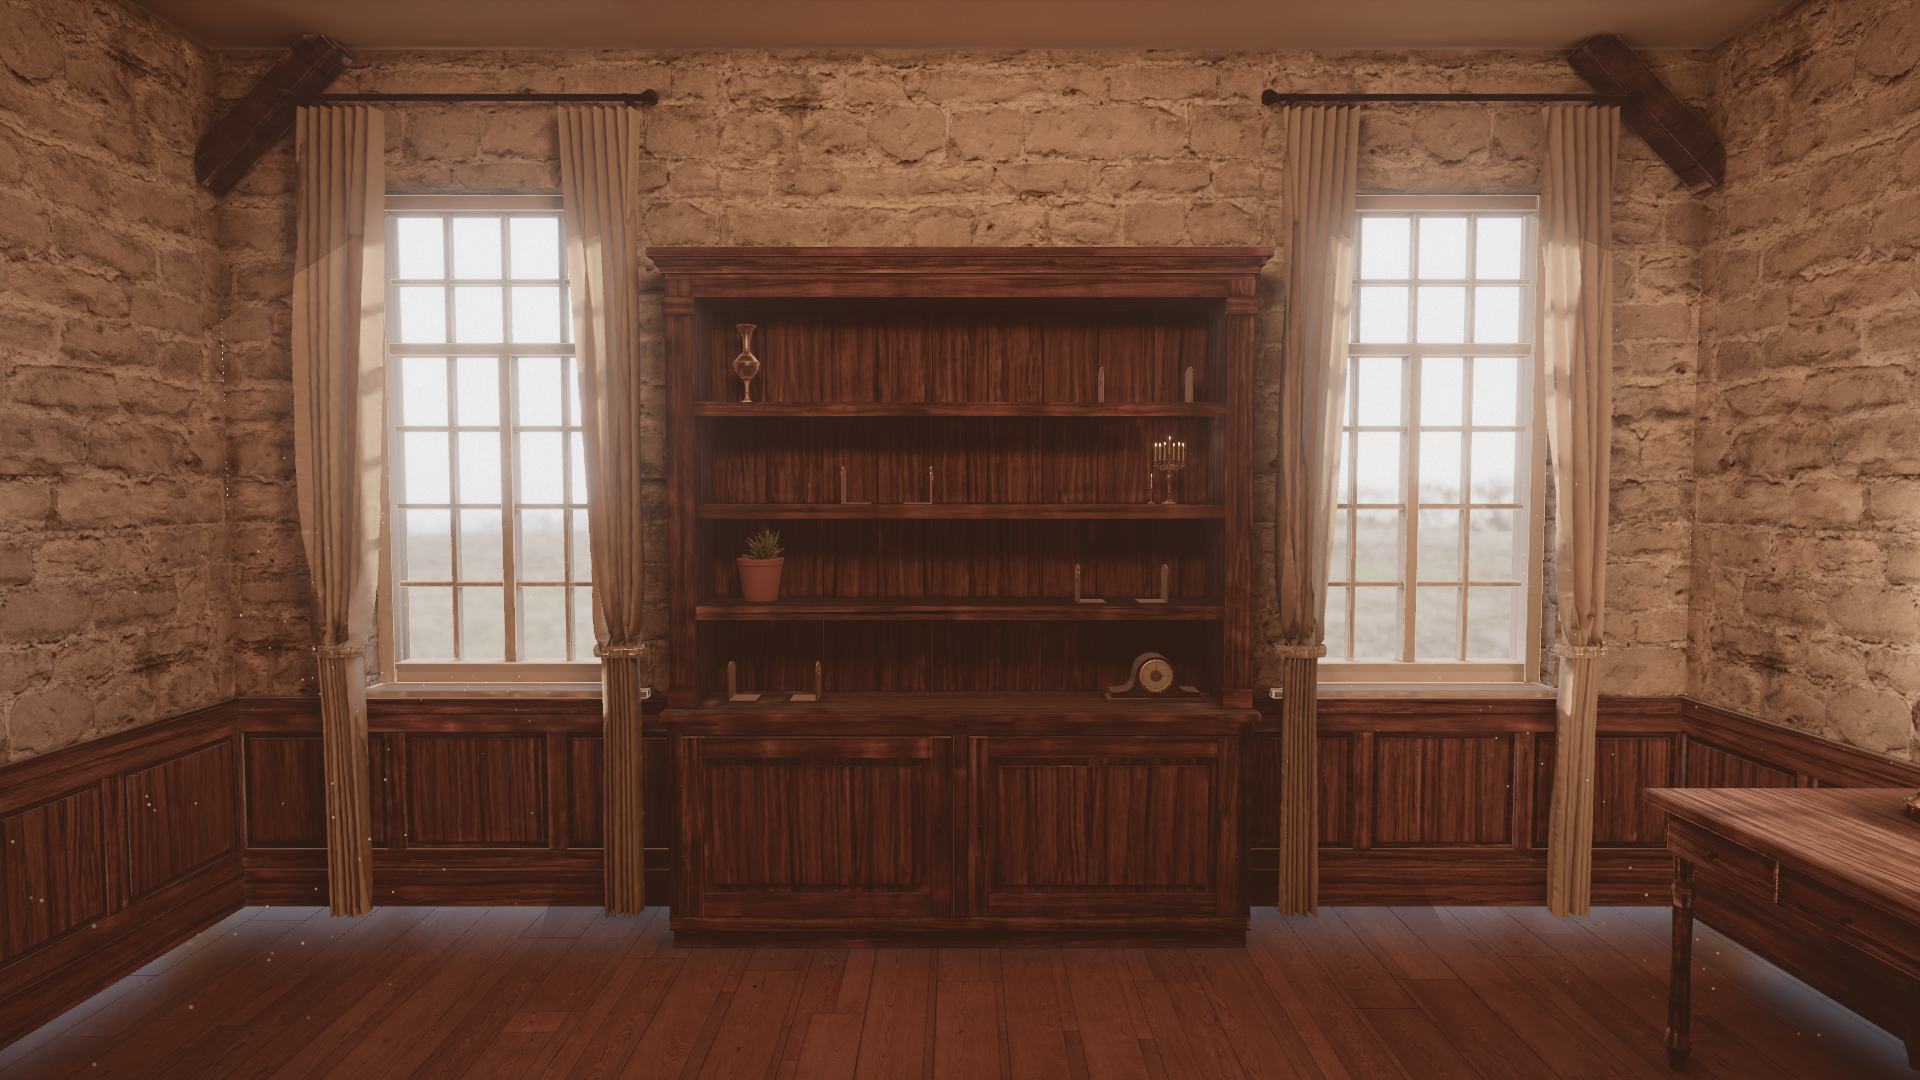
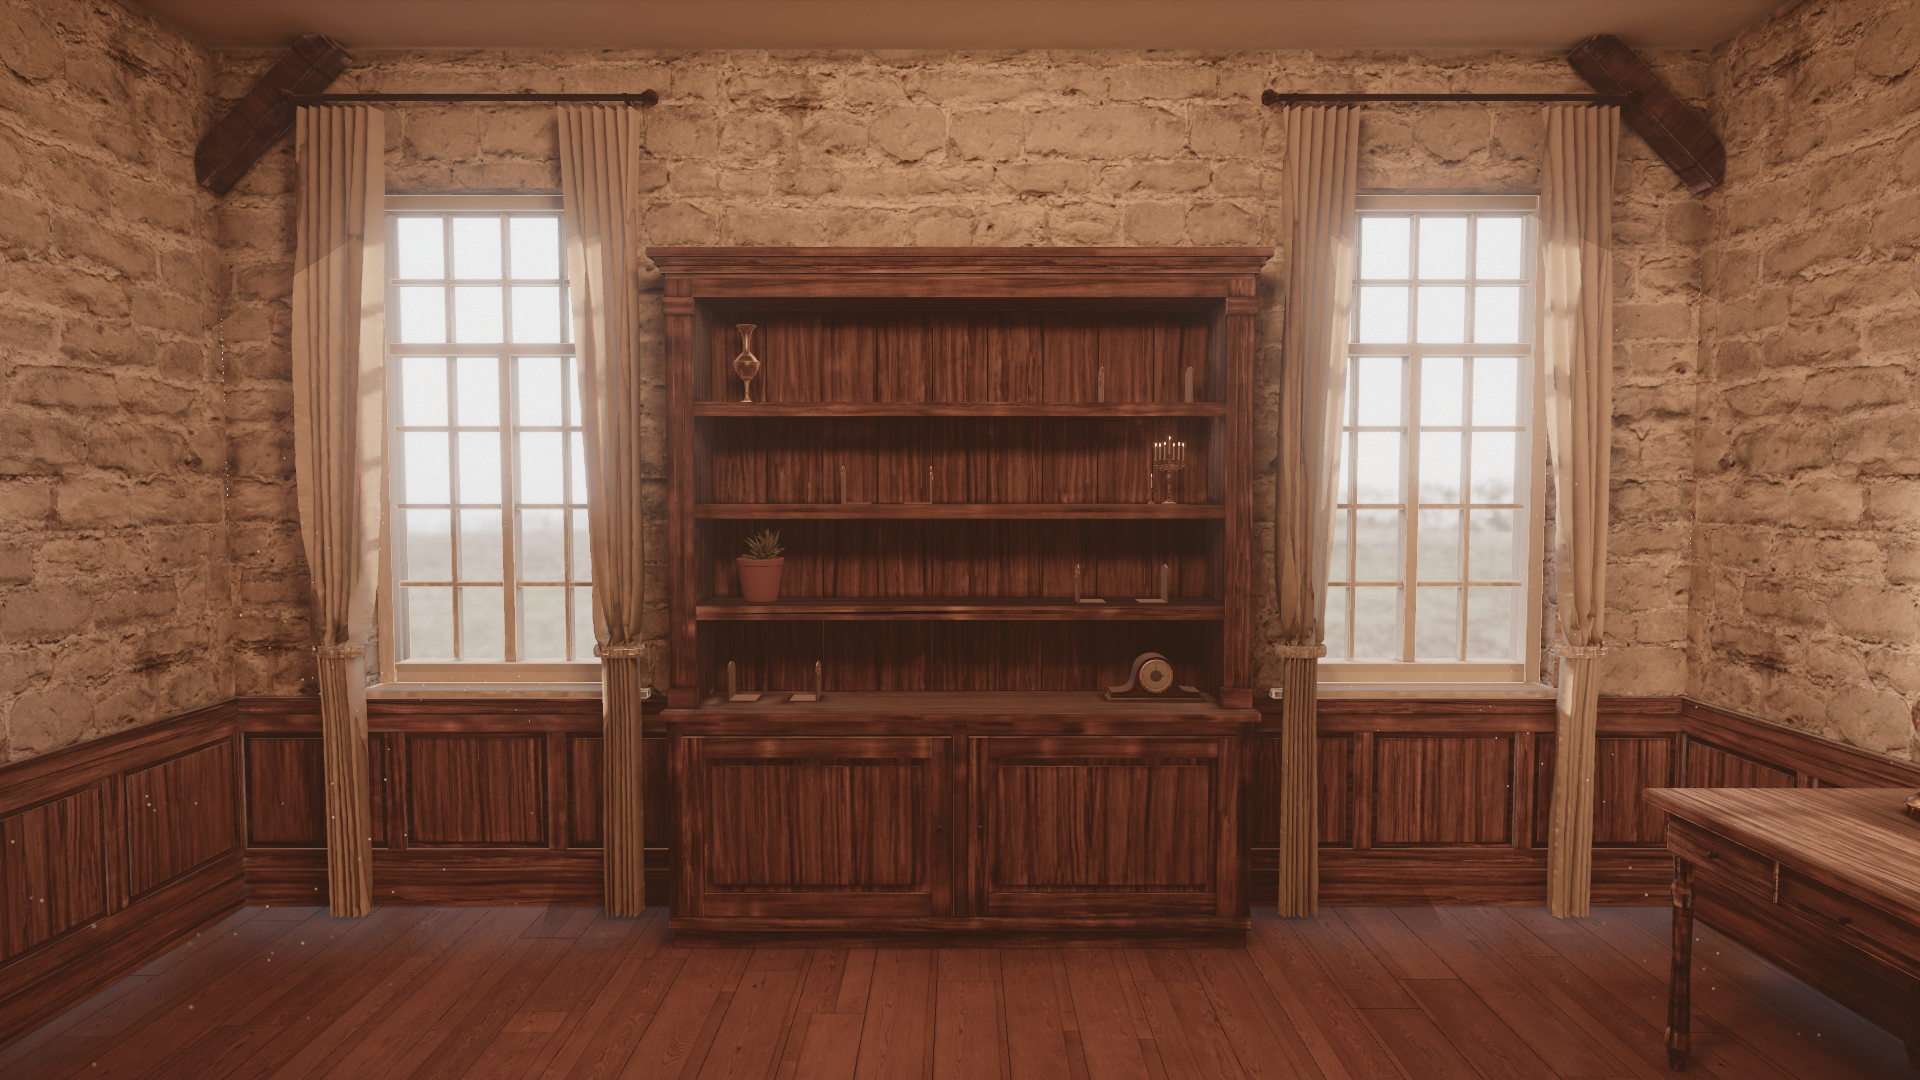
look dev S6: madeira menos vermelha, contato no reflexo, lustre mais forte

diff --git a/src/scene/floorReflectionShader.ts b/src/scene/floorReflectionShader.ts
@@ -1,6 +1,11 @@
-import { Matrix4, type WebGLRenderTarget } from 'three'
+import { Matrix4, Vector4, type WebGLRenderTarget } from 'three'
+import { room } from '../config/room'
+
+const bc = room.bookcase
 
 export interface FloorReflectionUniforms {
+  roomBounds: { value: Vector4 }
+  contactBox: { value: Vector4 }
   tReflect: { value: WebGLRenderTarget['texture'] | null }
   reflectMatrix: { value: Matrix4 }
   reflectMix: { value: number }
@@ -10,6 +15,10 @@ export interface FloorReflectionUniforms {
 
 /** Shared uniforms: the floor material reads them in its patched shader (see Lightmaps.ts). */
 export const floorReflection: FloorReflectionUniforms = {
+  roomBounds: { value: new Vector4(room.walls.left.x, room.walls.right.x, room.walls.back.z, room.walls.front.z) },
+  contactBox: {
+    value: new Vector4(bc.center[0] - bc.width / 2, bc.center[0] + bc.width / 2, bc.center[2] - bc.depth / 2, bc.center[2] + bc.depth / 2),
+  },
   tReflect: { value: null },
   reflectMatrix: { value: new Matrix4() },
   reflectMix: { value: 0 },
@@ -24,6 +33,8 @@ uniform mat4 reflectMatrix;
 uniform float reflectMix;
 uniform float reflectStretch;
 uniform float reflectBoost;
+uniform vec4 roomBounds; // xMin, xMax, zMin, zMax (inner faces of the walls)
+uniform vec4 contactBox; // bookcase footprint: xMin, xMax, zMin, zMax
 varying vec3 lbWorldPos;
 `
 
@@ -41,6 +52,12 @@ export const FLOOR_REFLECTION_SAMPLE = /* glsl */ `
 			wsum += w;
 		}
 		refl /= wsum;
-		radiance = mix( radiance, refl * reflectBoost, reflectMix );
+		// contact: the reflection fades near the walls and under the bookcase (nothing is mirrored that close
+		// to a vertical surface in a rough varnish; avoids the "set standing on the floor" look)
+		float dWall = min( min( lbWorldPos.x - roomBounds.x, roomBounds.y - lbWorldPos.x ), min( lbWorldPos.z - roomBounds.z, roomBounds.w - lbWorldPos.z ) );
+		vec2 dBox = max( vec2( contactBox.x - lbWorldPos.x, lbWorldPos.x - contactBox.y ), vec2( contactBox.z - lbWorldPos.z, lbWorldPos.z - contactBox.w ) );
+		float dCase = max( max( dBox.x, dBox.y ), 0.0 );
+		float contact = smoothstep( 0.0, 0.5, min( dWall, dCase ) );
+		radiance = mix( radiance, refl * reflectBoost * mix( 0.3, 1.0, contact ), reflectMix );
 	}
 `

diff --git a/scripts/prepare-textures.ts b/scripts/prepare-textures.ts
@@ -166,15 +166,15 @@ async function main() {
   mkdirSync(OUT, { recursive: true })
 
   // Floor: wide varnished planks, warmed toward floor base #7A4E32.
-  await pbr('floor_wood', 'floor', { mean: '#735036', saturation: 0.7, contrast: 1.15 }, { roughness: 0.32, spread: 0.7 })
+  await pbr('floor_wood', 'floor', { mean: '#785236', saturation: 0.6, contrast: 1.15 }, { roughness: 0.32, spread: 0.7 })
   // Stone: light limestone/sandstone #A89A84–#C8BBA2, slightly warm.
   await pbr('wall_stone', 'stone', { mean: '#AA9C86', saturation: 0.55 }, { disp: true, roughness: 0.85 })
   // Bookcase: dark mahogany, 25% less saturated than the source.
-  await pbr('bookcase_wood', 'bookcase', { mean: '#5C3D2A', saturation: 0.55 }, { roughness: 0.42 })
+  await pbr('bookcase_wood', 'bookcase', { mean: '#5F432F', saturation: 0.4 }, { roughness: 0.42 })
   // Wainscot + door: same wood, one tone lighter (direção de arte: mesma família).
-  await pbr('bookcase_wood', 'wainscot', { mean: '#674430', saturation: 0.55 }, { roughness: 0.45 })
+  await pbr('bookcase_wood', 'wainscot', { mean: '#6B4A34', saturation: 0.4 }, { roughness: 0.45 })
   // Desk: same family, between the two.
-  await pbr('bookcase_wood', 'desk', { mean: '#5F3F2C', saturation: 0.55 }, { roughness: 0.4 })
+  await pbr('bookcase_wood', 'desk', { mean: '#634632', saturation: 0.42 }, { roughness: 0.4 })
   // Beams: rough grey wood tinted to dark brown.
   await pbr('beam_wood', 'beam', { mean: '#46322A', saturation: 0.45, contrast: 1.1 }, { roughness: 0.78 })
   // Ceiling: warm plaster, never pure white.

diff --git a/blender/build_room.py b/blender/build_room.py
@@ -780,7 +780,7 @@ for w in cfg["windows"]:
 ch_color = kelvin_to_rgb(L["chandelier"]["kelvin"])
 for i, p in enumerate(tips):
     ld = bpy.data.lights.new(f"candle_{i}", "POINT")
-    ld.energy = 9.0
+    ld.energy = 14.0
     ld.shadow_soft_size = 0.015
     ld.color = ch_color
     lo = bpy.data.objects.new(f"candle_{i}", ld)

diff --git a/docs/look-dev/iteracoes.md b/docs/look-dev/iteracoes.md
@@ -37,3 +37,8 @@ Cada entrada: data/hora, o que mudou, notas por critério (art-reviewer), diverg
 ### S5 — 2026-10-15 ~02:15 (draft)
 - **Bug estrutural corrigido:** `MeshBuilder.finish()` recalculava normais em caixas abertas (face junto à parede omitida) e invertia faces do lambri/rodapé — o bake as iluminava por dentro (rodapé quase preto, "estante flutuando"). Agora as faces saem orientadas por construção, sem recálculo.
 - Reflexo do piso: alongamento 0,11 → 0,06 e ganho 1,25 → 1,0 (o véu cinza-azulado no fundo do piso era o reflexo das janelas espalhado em ângulo rasante, conferido com `debug=reflect-clear`); saturação global 0,8; latão dos props menos fosco.
+- **art-reviewer (S5):** 3 · 3 · 3 · 3 · 2 — "iterar". Encontro piso/parede: bug de geometria resolvido, restava shading; madeira ainda vermelha (afeta o rebatimento: corrigir antes do final).
+
+### S6 — 2026-10-15 ~02:20 (draft → base do bake final)
+- Madeiras com saturação 0,4 e matiz ~26° (médias #5F432F estante, #6B4A34 lambri, #785236 piso); velas do lustre 9 → 14 W (preenchimento da frente da estante); reflexo do piso atenuado nos 50 cm junto às paredes e à base da estante (contato).
+- Próximo passo: bake `final` (512 amostras, resolução cheia) + shot + revisão.
